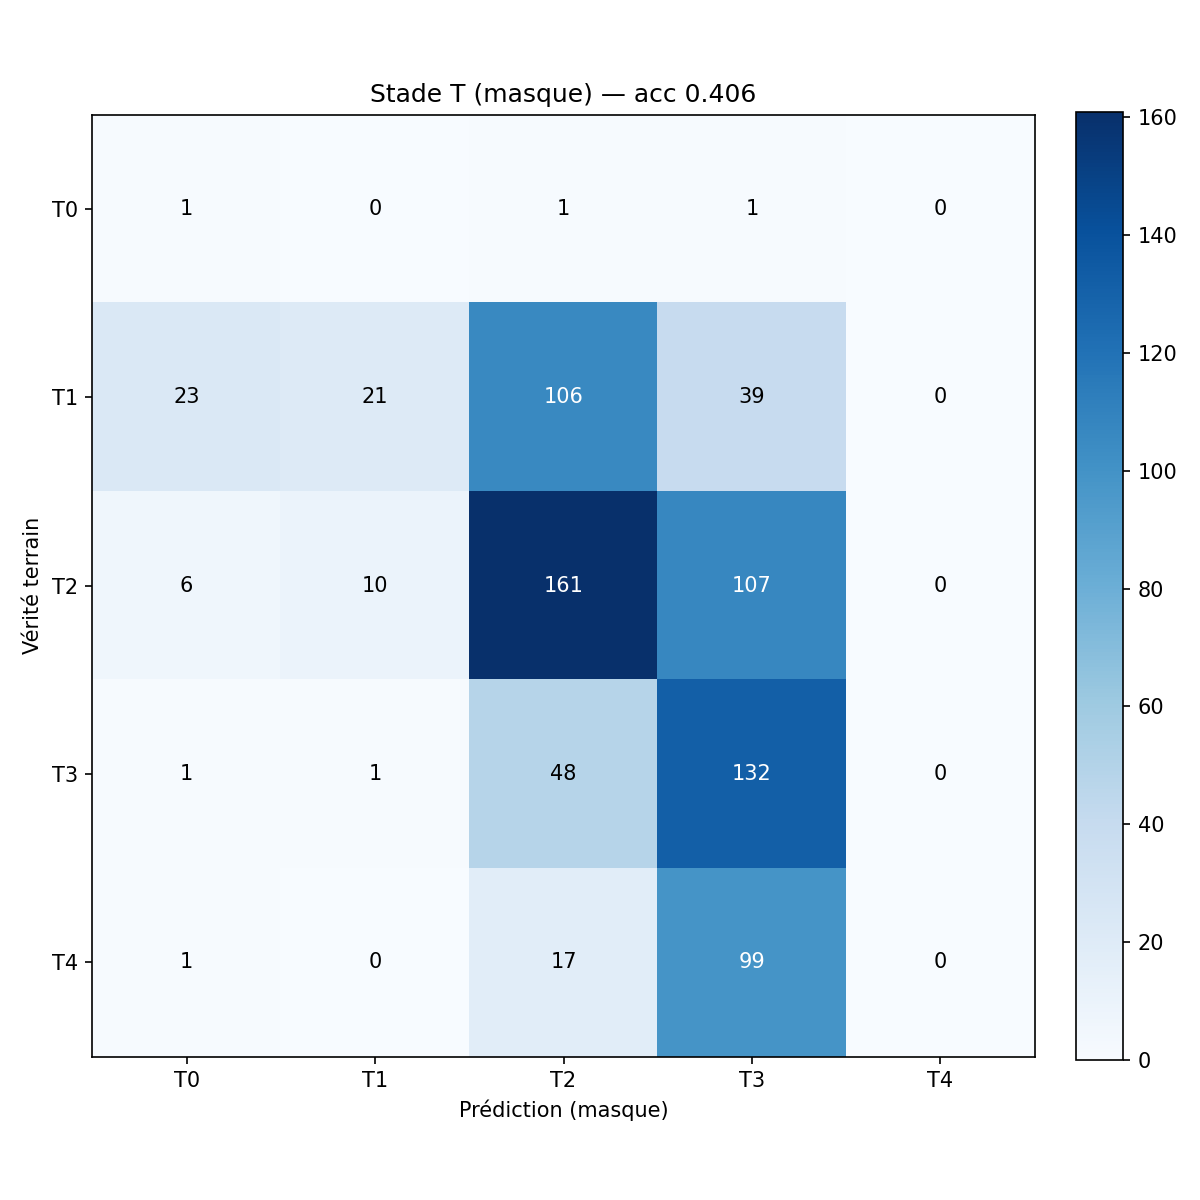
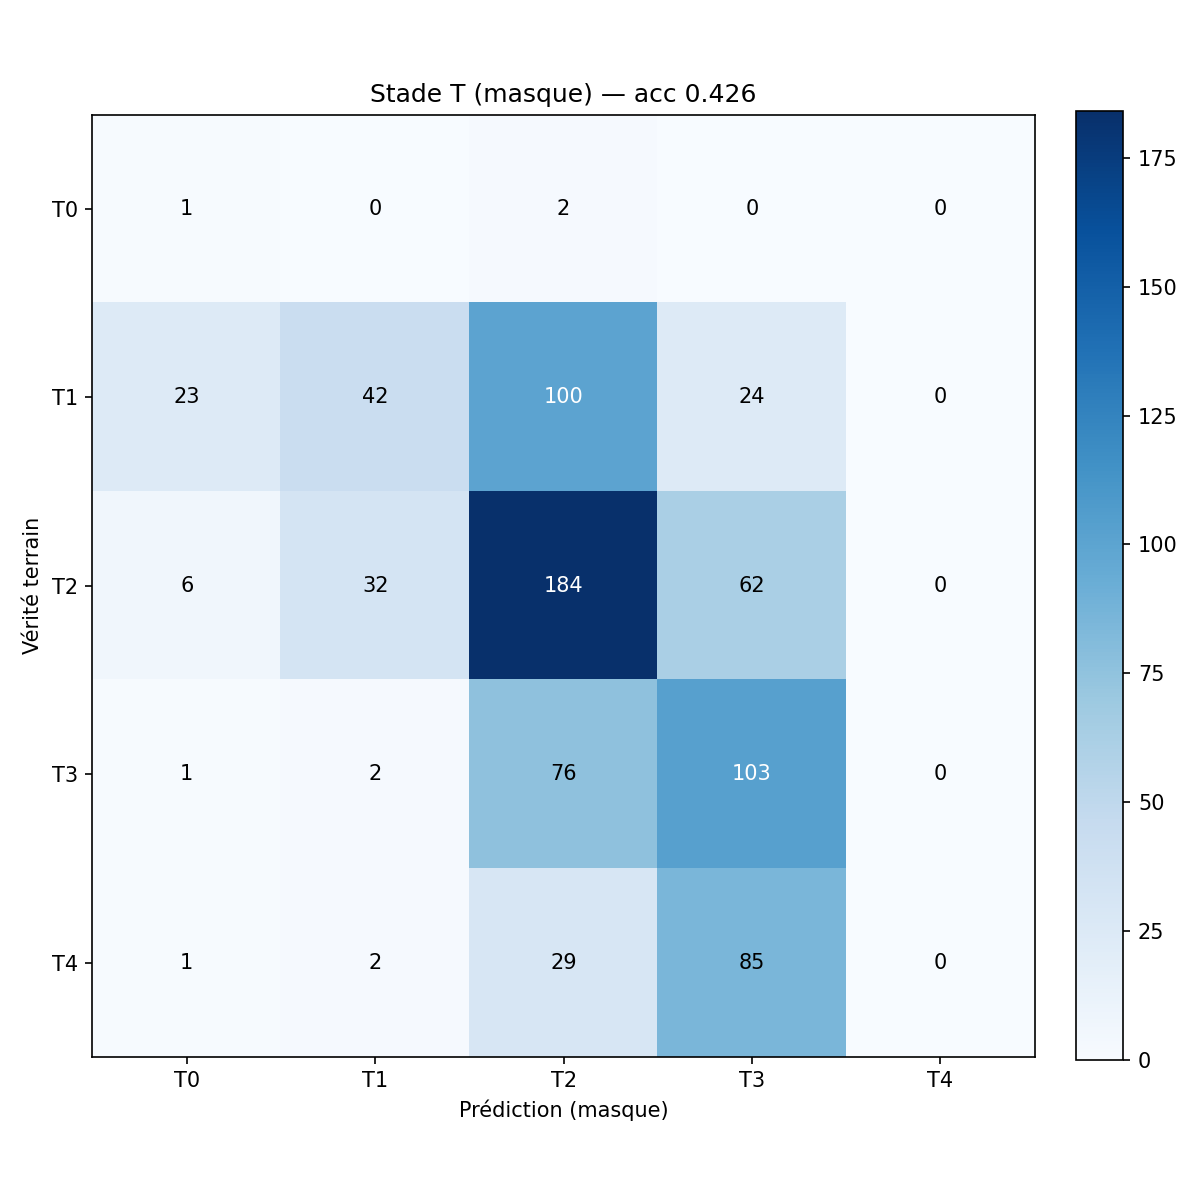
correction des theashold en foction de ce qu'a fait le radio

diff --git a/TN/T.py b/TN/T.py
@@ -4,11 +4,11 @@ Parcourt un dossier `MASKS_DIR/<PatientID>/<PatientID>.nii.gz` (même arborescen
 lue par `seg`) et mesure la géométrie de la tumeur primaire (GTVp = label 1) en coordonnées
 physiques (mm).
 
-Stade T — diamètre maximal 3D de la tumeur primaire :
-    no tumor  = T0
-    ≤ 2 cm    = T1
-    2 cm < d ≤ 4 cm = T2
-    > 4 cm    = T3
+Stade T — présence puis diamètre maximal 3D de la tumeur primaire :
+    aucun voxel de tumeur = T0
+    ≥ 1 voxel, ≤ 2 cm     = T1
+    2 cm < d ≤ 4 cm       = T2
+    > 4 cm                = T3
 
 Écrit un CSV `PatientID, T`.
 """
@@ -75,15 +75,12 @@ for patient_id in sorted(os.listdir(MASKS_DIR)):
     data = np.asarray(img.dataobj)
 
     gtvp = data == GTVP_LABEL
-    diameter = max_diameter_mm(gtvp, img.affine)
-    if gtvp.sum() == 0:
-        t_stage = "T0"                       # pas de tumeur primaire annotée
-    elif diameter <= 20:
-        t_stage = "T1"
-    elif diameter <= 40:
-        t_stage = "T2"
+    if not gtvp.any():
+        t_stage, diameter = "T0", 0.0        # aucun voxel de tumeur → T0
     else:
-        t_stage = "T3"
+        diameter = max_diameter_mm(gtvp, img.affine)
+        # présence d'au moins un voxel → T1 au minimum, puis seuils de taille
+        t_stage = "T1" if diameter <= 25 else "T2" if diameter <= 45 else "T3"
 
     rows.append({"PatientID": patient_id, "T": t_stage})
     print(f"{patient_id}: tumeur {diameter:.1f} mm → {t_stage}")
